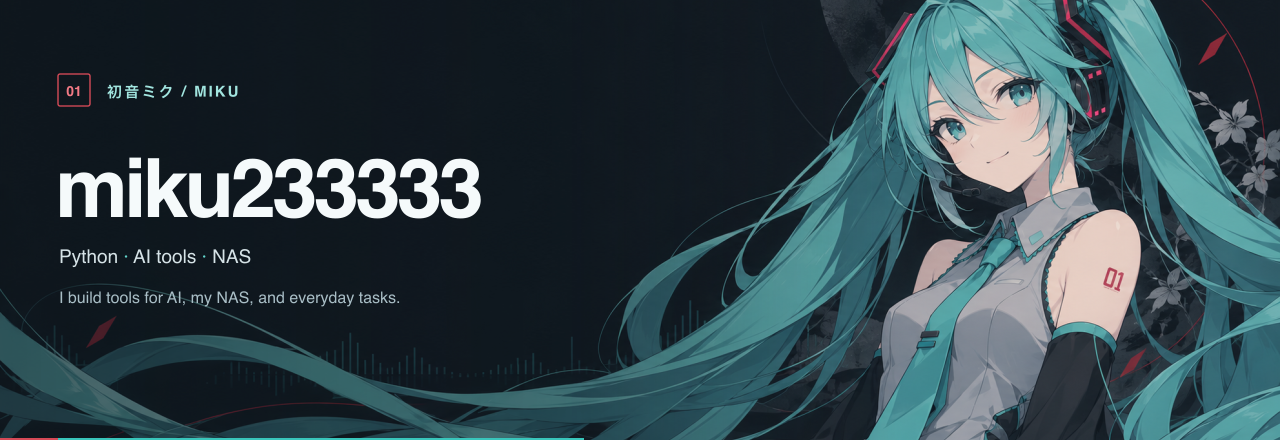
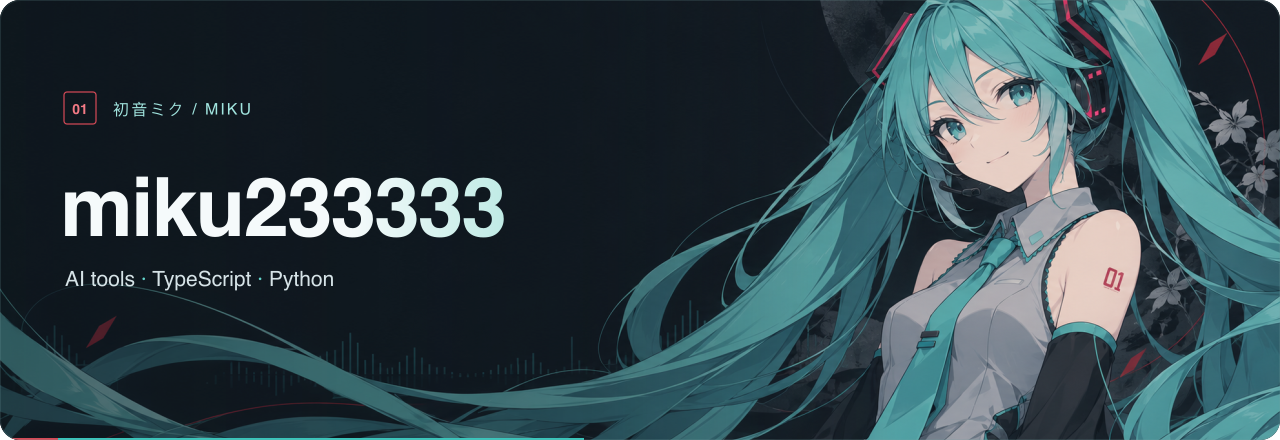
需求：精修初音主頁的排版與項目層次
實現思路：調整橫幅字距與留白，整合項目技術及狀態資訊。

diff --git a/README.md b/README.md
@@ -1,11 +1,11 @@
-![miku233333 — AI tools and NAS projects with Hatsune Miku and flowing turquoise twin tails.](assets/header-miku.png)
+![miku233333 — AI tools, TypeScript and Python, with Hatsune Miku and flowing turquoise twin tails.](assets/header-miku.png?v=9e067515b8db)
 
 I build tools for AI, my NAS, and everyday tasks.
 
 ## Selected projects
 
-| Project | Description | Status |
-| --- | --- | --- |
-| [**KianCode**](https://github.com/miku233333/kiancode) | A self-hosted agent runtime with durable tasks, scoped tools, multi-agent delegation, and device workspaces.<br>TypeScript · Node.js | Open source |
-| [**Synology NAS MCP**](https://github.com/miku233333/synology-nas-mcp) | A self-hosted Python MCP server for reading files from a Synology NAS. | Alpha |
-| [**VTC CLI**](https://github.com/miku233333/vtc-cli) | A local command-line tool for accessing Moodle and MyPortal courses, assignments, and timetables. | Unofficial |
+| Project | Description |
+| --- | --- |
+| [**KianCode**](https://github.com/miku233333/kiancode)<br><sub>TypeScript · Node.js · Open source</sub> | A self-hosted agent runtime with durable tasks, scoped tools, multi-agent delegation, and device workspaces. |
+| [**Synology NAS MCP**](https://github.com/miku233333/synology-nas-mcp)<br><sub>Python · MCP · Alpha</sub> | A self-hosted Python MCP server for reading files from a Synology NAS. |
+| [**VTC CLI**](https://github.com/miku233333/vtc-cli)<br><sub>Python · CLI · Unofficial</sub> | A local command-line tool for accessing Moodle and MyPortal courses, assignments, and timetables. |
